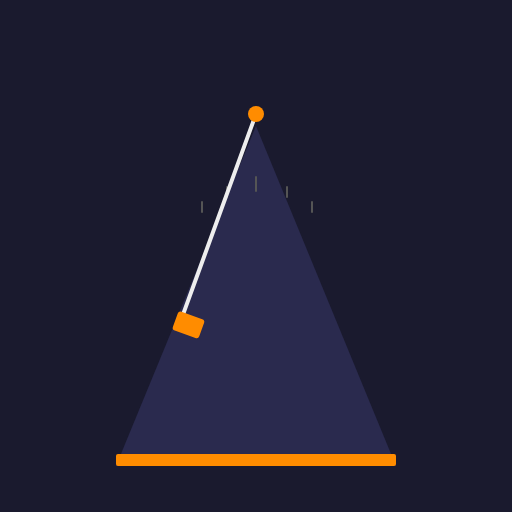
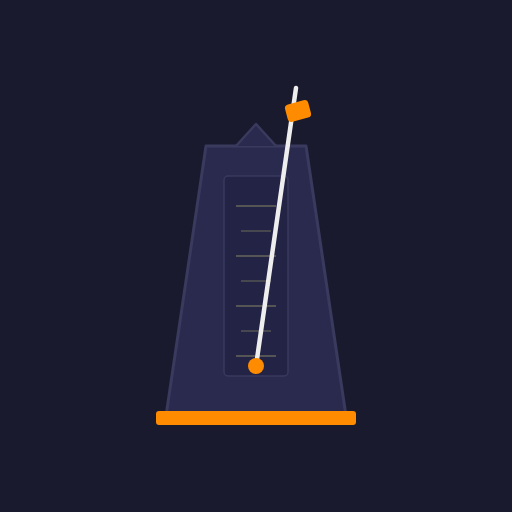
fix: アイコンをクラシックメトロノーム形状に修正
振り子が上方向に伸びる伝統的なメトロノームデザインに変更。
台形の本体・目盛り・下部支点・上部おもりを表現。

https://claude.ai/code/session_01QGJnftwqqp5BYtWQMczua2

Changed region(s): [[0.2188, 0.1562, 0.7812, 0.9375]]

diff --git a/icons/generate.js b/icons/generate.js
@@ -1,5 +1,4 @@
 const puppeteer = require('puppeteer');
-const fs = require('fs');
 const path = require('path');
 
 const ICON_HTML = `<!DOCTYPE html>
@@ -10,68 +9,47 @@ body {
   background: #1a1a2e;
   display: flex; justify-content: center; align-items: center;
 }
-.icon {
-  position: relative; width: 360px; height: 420px;
-}
-/* メトロノーム本体（三角形） */
-.body-shape {
-  position: absolute; bottom: 0; left: 50%; transform: translateX(-50%);
-  width: 0; height: 0;
-  border-left: 140px solid transparent;
-  border-right: 140px solid transparent;
-  border-bottom: 340px solid #2a2a4e;
-}
-/* 底辺の太いライン */
-.base {
-  position: absolute; bottom: 0; left: 50%; transform: translateX(-50%);
-  width: 280px; height: 12px;
-  background: #ff8c00; border-radius: 2px;
-}
-/* 振り子の軸（中心） */
-.pivot {
-  position: absolute; top: 60px; left: 50%; transform: translateX(-50%);
-  width: 16px; height: 16px;
-  background: #ff8c00; border-radius: 50%;
-}
-/* 振り子の棒（斜め） */
-.pendulum {
-  position: absolute; top: 68px; left: 50%;
-  width: 4px; height: 220px;
-  background: #eee;
-  transform-origin: top center;
-  transform: translateX(-50%) rotate(20deg);
-  border-radius: 2px;
-}
-/* 振り子のおもり */
-.weight {
-  position: absolute; top: 230px; left: 50%;
-  width: 28px; height: 20px;
-  background: #ff8c00;
-  transform: translateX(-50%) rotate(20deg);
-  border-radius: 3px;
-  transform-origin: -130px -162px;
-}
-/* 目盛り */
-.tick { position:absolute; background:#555; border-radius:1px; }
-.t1 { top:130px; left:50%; width:2px; height:16px; transform:translateX(-50%); }
-.t2 { top:140px; left:calc(50% - 30px); width:2px; height:12px; }
-.t3 { top:140px; left:calc(50% + 30px); width:2px; height:12px; }
-.t4 { top:155px; left:calc(50% - 55px); width:2px; height:12px; }
-.t5 { top:155px; left:calc(50% + 55px); width:2px; height:12px; }
+svg { width: 380px; height: 420px; }
 </style></head>
 <body>
-  <div class="icon">
-    <div class="body-shape"></div>
-    <div class="base"></div>
-    <div class="tick t1"></div>
-    <div class="tick t2"></div>
-    <div class="tick t3"></div>
-    <div class="tick t4"></div>
-    <div class="tick t5"></div>
-    <div class="pendulum"></div>
-    <div class="pivot"></div>
-    <div class="weight"></div>
-  </div>
+<svg viewBox="0 0 380 420" xmlns="http://www.w3.org/2000/svg">
+  <!-- メトロノーム本体（台形） -->
+  <path d="M 100,370 L 280,370 L 240,100 L 140,100 Z"
+        fill="#2a2a4e" stroke="#3a3a5e" stroke-width="3"
+        stroke-linejoin="round" />
+
+  <!-- 底辺ベース -->
+  <rect x="90" y="365" width="200" height="14" rx="3" fill="#ff8c00" />
+
+  <!-- 前面パネル -->
+  <rect x="158" y="130" width="64" height="200" rx="4"
+        fill="#232345" stroke="#3a3a5e" stroke-width="1.5" />
+
+  <!-- 目盛り線 -->
+  <line x1="170" y1="160" x2="210" y2="160" stroke="#555" stroke-width="2" />
+  <line x1="175" y1="185" x2="205" y2="185" stroke="#555" stroke-width="1.5" />
+  <line x1="170" y1="210" x2="210" y2="210" stroke="#555" stroke-width="2" />
+  <line x1="175" y1="235" x2="205" y2="235" stroke="#555" stroke-width="1.5" />
+  <line x1="170" y1="260" x2="210" y2="260" stroke="#555" stroke-width="2" />
+  <line x1="175" y1="285" x2="205" y2="285" stroke="#555" stroke-width="1.5" />
+  <line x1="170" y1="310" x2="210" y2="310" stroke="#555" stroke-width="2" />
+
+  <!-- 振り子の棒（上方向に伸びる、少し斜め） -->
+  <line x1="190" y1="320" x2="230" y2="42"
+        stroke="#eee" stroke-width="4.5" stroke-linecap="round" />
+
+  <!-- 振り子のおもり（上部） -->
+  <rect x="220" y="56" width="24" height="18" rx="4"
+        fill="#ff8c00" transform="rotate(-15, 232, 65)" />
+
+  <!-- 振り子の支点（下部） -->
+  <circle cx="190" cy="320" r="8" fill="#ff8c00" />
+
+  <!-- 頂部の三角飾り -->
+  <path d="M 170,100 L 190,78 L 210,100"
+        fill="#2a2a4e" stroke="#3a3a5e" stroke-width="2.5"
+        stroke-linejoin="round" />
+</svg>
 </body></html>`;
 
 async function generate() {
